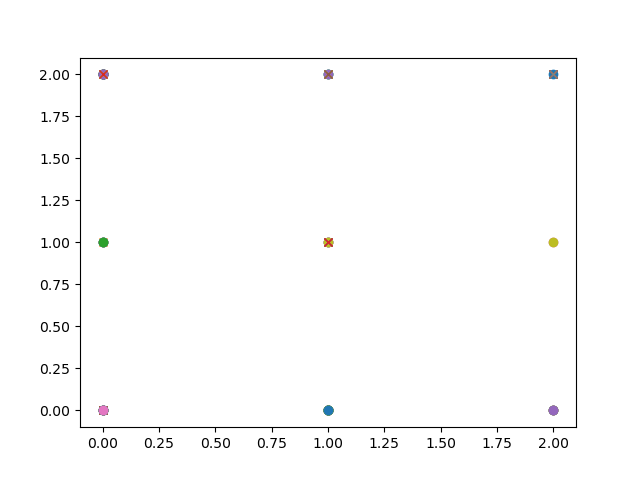
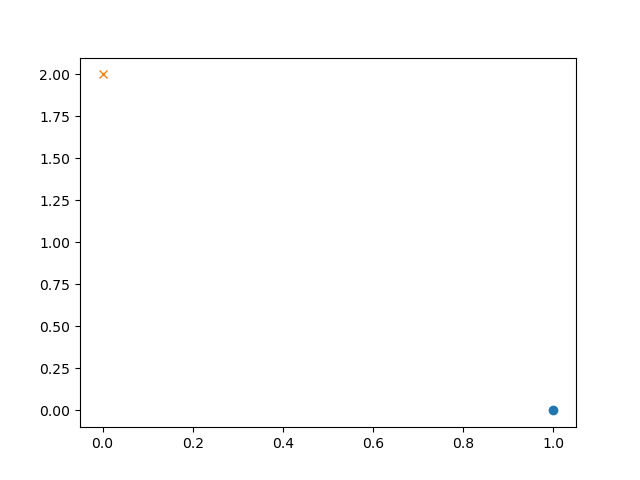
fix robot clear

diff --git a/robot_plotter.py b/robot_plotter.py
@@ -30,3 +30,4 @@ def plot_robot(policy, upMDP):
         plt.plot([r_pos[0]],[r_pos[1]], 'o')
         plt.plot([j_pos[0]],[j_pos[1]], 'x')
         plt.savefig("robot_plots/{0:0=2d}.png".format(i))
+        plt.cla()
